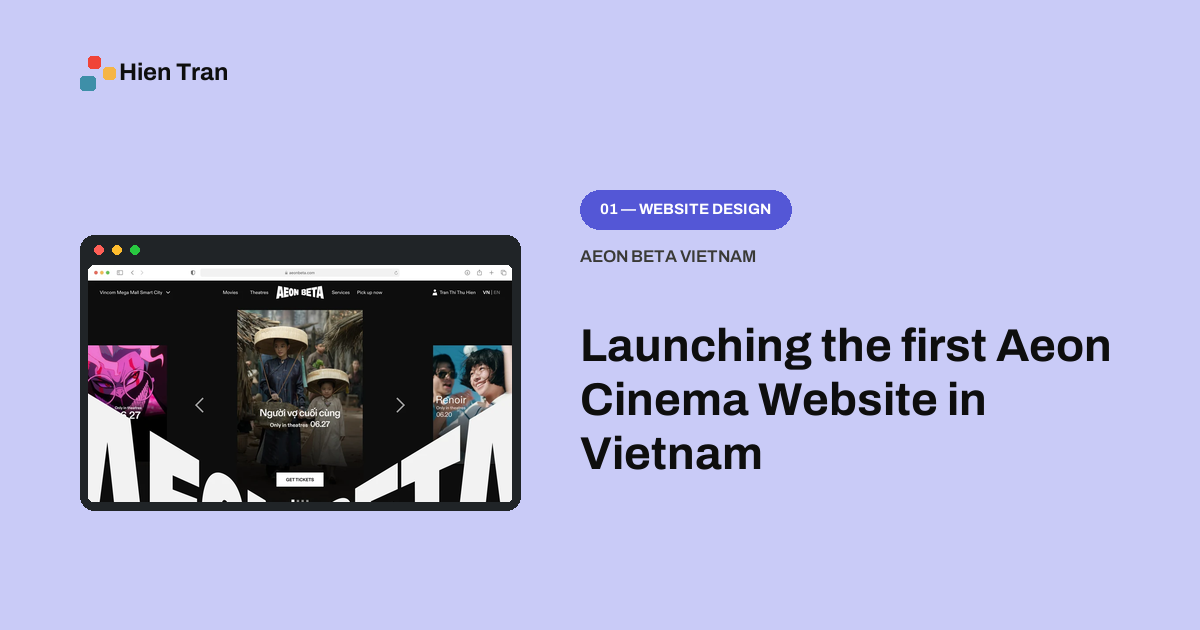
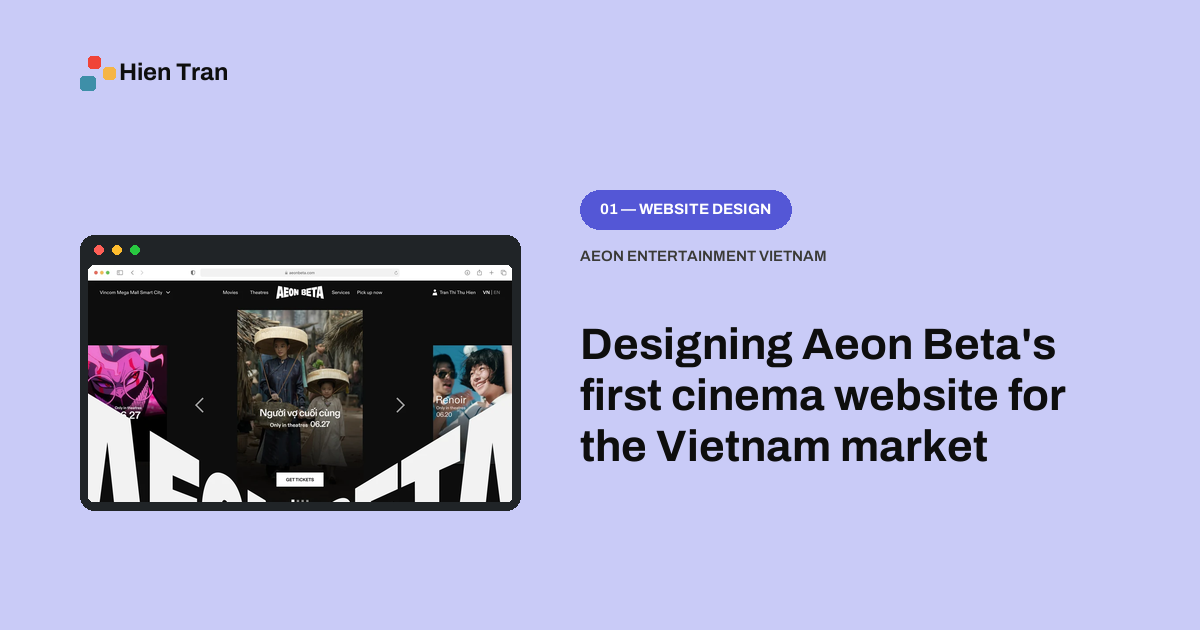
Rename client to Aeon Entertainment Vietnam
Updates all remaining references from "Aeon Beta Vietnam" to "Aeon
Entertainment Vietnam" (title, meta tags, overview copy, client info
card, about.html project listing) and regenerates the social share
thumbnail with the new client label.

Changed region(s): [[0.4625, 0.5127, 0.925, 0.754], [0.4933, 0.3921, 0.7092, 0.4222]]

diff --git a/work/aeon-case-study.html b/work/aeon-case-study.html
@@ -3,17 +3,17 @@
 <head>
 <meta charset="utf-8">
 <meta name="viewport" content="width=device-width, initial-scale=1">
-<title>Aeon Beta Vietnam — Cinema Website | Hien</title>
+<title>Aeon Entertainment Vietnam — Cinema Website | Hien</title>
 <meta name="description" content="Case study: launching the first Aeon Cinema website in Vietnam — designing inside real business decisions, technical limits, and constraints.">
 <meta property="og:type" content="website">
 <meta property="og:url" content="https://hientrantt35.github.io/hien-portfolio/work/aeon-case-study.html">
-<meta property="og:title" content="Aeon Beta Vietnam — Cinema Website">
+<meta property="og:title" content="Aeon Entertainment Vietnam — Cinema Website">
 <meta property="og:description" content="Case study: launching the first Aeon Cinema website in Vietnam — designing inside real business decisions, technical limits, and constraints.">
 <meta property="og:image" content="https://hientrantt35.github.io/hien-portfolio/uploads/og/aeon.png">
 <meta property="og:image:width" content="1200">
 <meta property="og:image:height" content="630">
 <meta name="twitter:card" content="summary_large_image">
-<meta name="twitter:title" content="Aeon Beta Vietnam — Cinema Website">
+<meta name="twitter:title" content="Aeon Entertainment Vietnam — Cinema Website">
 <meta name="twitter:description" content="Case study: launching the first Aeon Cinema website in Vietnam — designing inside real business decisions, technical limits, and constraints.">
 <meta name="twitter:image" content="https://hientrantt35.github.io/hien-portfolio/uploads/og/aeon.png">
 <link rel="preconnect" href="https://fonts.googleapis.com">
@@ -91,12 +91,12 @@
     <div style="display: grid; grid-template-columns: minmax(0, 1.5fr) minmax(300px, 0.95fr); gap: 32px; align-items: stretch">
       <div style="background: #FFFFFF; border-radius: 10px; padding: 52px 56px; box-shadow: 0 28px 60px rgba(14,14,14,0.14)">
         <div style="display: flex; align-items: center; gap: 12px; margin-bottom: 22px"><span style="font-size: 13px; font-weight: 700; letter-spacing: 0.16em; color: #8A8A85">OVERVIEW</span></div>
-        <p style="margin: 0; font-size: clamp(22px, 2.1vw, 30px); font-weight: 500; line-height: 1.42; letter-spacing: -0.02em; text-wrap: pretty">A part of the Aeon Group, Japan cinema chain. Aeon Beta Vietnam was preparing to open the brand's first cinema in Vietnam, and needed a website to launch alongside it as <span style="color: #5457D6">their primary digital storefront for the brand's market entry.</span></p>
+        <p style="margin: 0; font-size: clamp(22px, 2.1vw, 30px); font-weight: 500; line-height: 1.42; letter-spacing: -0.02em; text-wrap: pretty">A part of the Aeon Group, Japan cinema chain. Aeon Entertainment Vietnam was preparing to open the brand's first cinema in Vietnam, and needed a website to launch alongside it as <span style="color: #5457D6">their primary digital storefront for the brand's market entry.</span></p>
       </div>
       <div style="background: #EFEAE3; border-radius: 10px; padding: 44px 40px; display: grid; grid-template-columns: 1fr 1fr; gap: 30px 24px; align-content: center; box-shadow: 0 28px 60px rgba(14,14,14,0.1)">
         <div>
           <div style="font-size: 11px; font-weight: 700; letter-spacing: 0.16em; color: #8A8A85">CLIENT</div>
-          <div style="margin-top: 8px; font-size: 18px; font-weight: 600; letter-spacing: -0.01em">Aeon Beta Vietnam</div>
+          <div style="margin-top: 8px; font-size: 18px; font-weight: 600; letter-spacing: -0.01em">Aeon Entertainment Vietnam</div>
         </div>
         <div>
           <div style="font-size: 11px; font-weight: 700; letter-spacing: 0.16em; color: #8A8A85">TIMELINE</div>

diff --git a/about.html b/about.html
@@ -80,7 +80,7 @@
             <div style="display: grid; gap: 2px">
               <div style="display: flex; align-items: baseline; gap: 10px; flex-wrap: wrap">
                 <span style="font-size: 12px; font-weight: 600; color: #2C6C80; white-space: nowrap">2025/7</span>
-                <span style="font-size: 13px; font-weight: 600; letter-spacing: -0.01em; line-height: 1.35; text-wrap: pretty">Aeon Beta Vietnam/Website UX Design</span>
+                <span style="font-size: 13px; font-weight: 600; letter-spacing: -0.01em; line-height: 1.35; text-wrap: pretty">Aeon Entertainment Vietnam/Website UX Design</span>
               </div>
               <div style="display: flex; align-items: center; gap: 12px; flex-wrap: wrap; margin-top: 2px"><span style="font-size: 12px; line-height: 1.4; color: #55606B">UX Designer</span><a class="cs-link" href="work/aeon-case-study.html" style="display: inline-flex; align-items: center; gap: 6px; font-size: 12px; font-weight: 600; color: #2C6C80; border-bottom: 1px solid #B9D5DE; white-space: nowrap"><span style="width: 6px; height: 6px; border-radius: 1.4px; background: #3E8FA8; transform: rotate(-12deg); flex: 0 0 auto"></span>View case study<span class="cs-ar">→</span></a></div>
             </div>
